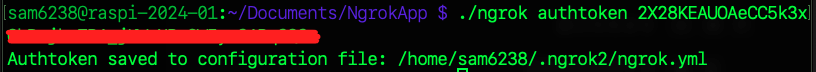
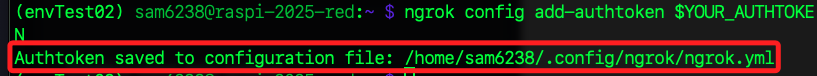
Commit on 2025-07-03 04:49:07

diff --git a/D03_伺服器/02_網頁伺服器/15-4_手動下載設置.md b/D03_伺服器/02_網頁伺服器/15-4_手動下載設置.md
@@ -1,0 +1,100 @@
+## 手動下載設定
+
+_若使用手動下載二進位檔案，需將 `Ngrok` 移動到系統 `PATH` 中；不建議這樣操作，僅供參考_
+
+<br>
+
+## 步驟
+
+1. 切換到 `ngrok` 應用所在路徑中。
+
+    ```bash
+    ls ~/Documents/NgrokApp/ngrok
+    ```
+
+<br>
+
+2. 確保具有可執行權限。
+
+    ```bash
+    sudo chmod +x ~/Documents/NgrokApp/ngrok
+    ```
+
+<br>
+
+3. 將 `ngrok` 執行檔移動到 `/usr/local/bin`，使其成為系統全域指令。
+
+    ```bash
+    sudo mv ~/Documents/NgrokApp/ngrok /usr/local/bin/ngrok
+    ```
+
+<br>
+
+4. 同時也可進一步檢查 `/usr/local/bin` 是否已經在 PATH 環境變數中。
+
+    ```bash
+    echo $PATH
+    ```
+
+    ![](images/img_141.png)
+
+<br>
+
+5. 如果 `/usr/local/bin` 不在 PATH 中，添加到配置文件 `.bashrc`。
+
+    ```bash
+    echo 'export PATH=$PATH:/usr/local/bin' >> ~/.bashrc
+    source ~/.bashrc
+    ```
+
+<br>
+
+6. 完成後，切換到任意目錄中並運行以下指令，確認設置是否完成；特別注意，設定完成後執行的就是全域指令，也就是系統路徑中的 `ngrok`，所以不使用 `./`；另外，在尚未建立全域變數時，即便位在腳本所在路徑中也必須加上 `./`，因為 `Linux/macOS` 系統預設不會將 `當前目錄` 加入 `$PATH`。
+
+    ```bash
+    cd ~ && ngrok --version
+    ```
+
+<br>
+
+7. 嘗試透過以下指令添加憑證。
+
+    ```bash
+    ngrok config add-authtoken <輸入自己的憑證>
+    ```
+
+<br>
+
+8. 啟動服務。
+
+    ```bash
+    ngrok http 80
+    ```
+
+<br>
+
+## 補充說明
+
+_路徑解析機制_
+
+<br>
+
+1. 完成設定或透過 apt 安裝的 ngrok 會放在系統 PATH 中，例如 `/usr/bin/ngrok`，在執行時便不需要用 `./`，Linux 會根據 $PATH 環境變數所指定的搜尋路徑清單，從中尋找一個叫做 ngrok 的執行檔。
+
+    ```bash
+    ngrok http 80
+    ```
+
+<br>
+
+2. 若使用前綴 `./`，就是通知 Linux 強制執行 `目前目錄下（.）` 的 `ngrok` 可執行檔。
+
+    ```bash
+    ./ngrok http 80
+    ```
+
+<br>
+
+___
+
+_END_

diff --git a/D03_伺服器/02_網頁伺服器/15-2_註冊 Ngrok.md b/D03_伺服器/02_網頁伺服器/15-2_註冊 Ngrok.md
@@ -1,0 +1,73 @@
+# 註冊
+
+<br>
+
+## 步驟說明
+
+1. 前往 [Ngrok 官網](https://ngrok.com/) 點擊 `Sign up`，已有帳戶可點擊 `Login in`。
+
+    ![](images/img_32.png)
+
+<br>
+
+2. 建議使用 Google 帳號快速註冊。
+
+    ![](images/img_33.png)
+
+<br>
+
+## 手動設定
+
+1. 切換到 `Your Authtoken` 頁籤，複製 `Authtoken` 或保留瀏覽頁面備用。
+
+    ![](images/img_31.png)
+
+<br>
+
+2. 開啟終端機，將 `Authtoken` 存入變數。
+
+```bash
+YOUR_AUTHTOKEN=<複製下來的-Authtoken>
+```
+
+![](images/img_167.png)
+
+4. 在終端機執行以下指令進行授權，完成時會輸出儲存路徑。
+
+    ```bash
+    ngrok config add-authtoken $YOUR_AUTHTOKEN
+    ```
+
+    ![](images/img_118.png)
+
+<br>
+
+5. 啟動服務並指定使用端口 `80`。
+
+    ```bash
+    ngrok http 80
+    ```
+
+<br>
+
+6. 複製公網網址可進行訪問服務器。
+
+    ![](images/img_140.png)
+
+<br>
+
+7. 若正常運行會顯示如下，點擊 `Visit Site` 。
+
+    ![](images/img_96.png)
+
+<br>
+
+8. 就會看到目前正在端口上運行的服務器；同時終端機會顯示 `200 OK`。
+
+    ![](images/img_97.png)
+
+<br>
+
+___
+
+_END_

diff --git a/D03_伺服器/02_網頁伺服器/15-3_Ngrok 錯誤排除紀錄.md b/D03_伺服器/02_網頁伺服器/15-3_Ngrok 錯誤排除紀錄.md
@@ -24,6 +24,14 @@
 
 <br>
 
+## 版本過低
+
+1. 假如版本過低會出現以下警告。
+
+    ![](images/img_34.png)
+
+<br>
+
 ___
 
 _持續記錄中_
